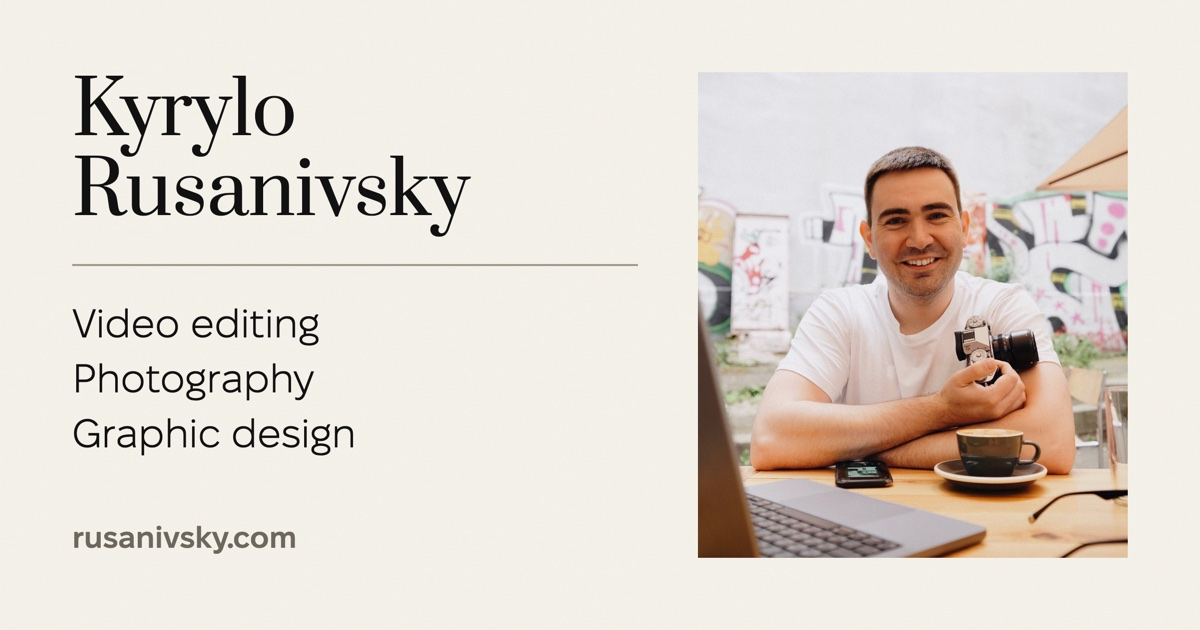
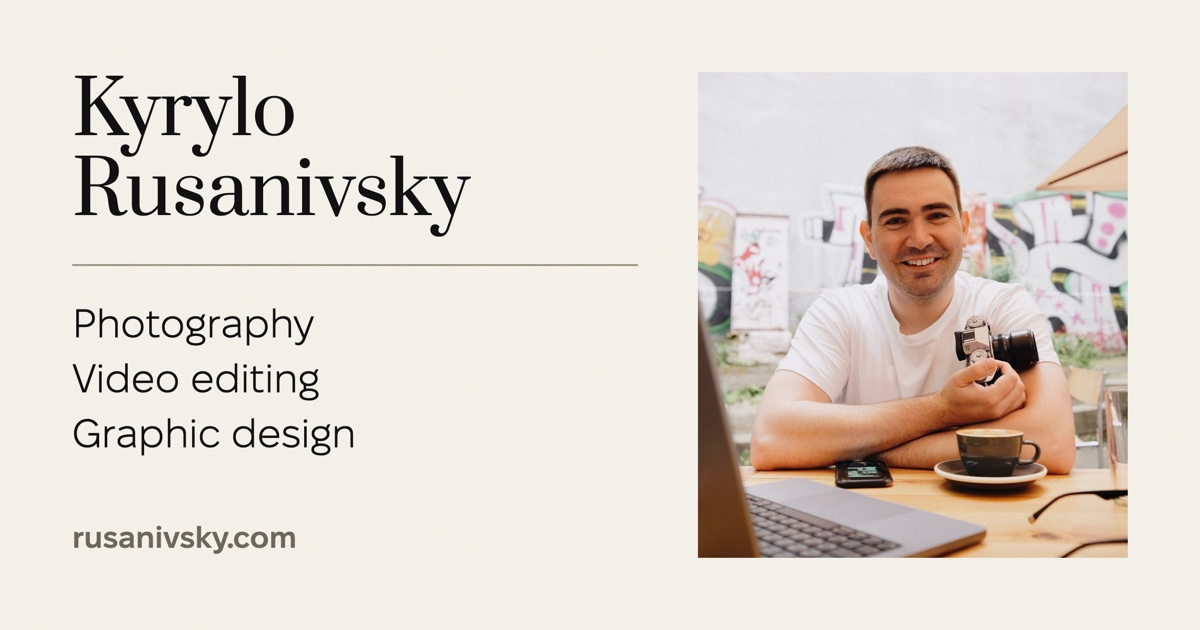
Фотографія попереду — скрізь, де перелічені три напрямки
Метадані несли порядок старого сайту: відео, фотографія, дизайн. Бічна
панель, вступ на головній і сторінки практик давно йдуть інакше —
фотографія, відео, дизайн. Метадані, які суперечать сторінці, гірші
за метадані, які застаріли.

Переставлено в заголовках обох мов, в описах головної і умов, в alt
обкладинки для соцмереж і на самій картці. Слова ті самі, ключові
слова нікуди не діли́ся — переставлений лише порядок.

Changed region(s): [[0.0617, 0.573, 0.2775, 0.6333], [0.0617, 0.4825, 0.2775, 0.5429]]

diff --git a/ua/index.html b/ua/index.html
@@ -3,8 +3,8 @@
 <head>
 <meta charset="utf-8">
 <meta name="viewport" content="width=device-width, initial-scale=1, viewport-fit=cover">
-<title>Кирило Русанівський — митець | Відео, фотографія, дизайн</title>
-<meta name="description" content="Кирило Русанівський — відеомонтажер, фотограф і графічний дизайнер із Києва. Монтаж відео, репортажна фотографія, дизайн книжок і обкладинок, верстка.">
+<title>Кирило Русанівський — митець | Фотографія, відео, дизайн</title>
+<meta name="description" content="Кирило Русанівський — фотограф, відеомонтажер і графічний дизайнер із Києва. Репортажна фотографія, монтаж відео, дизайн книжок і обкладинок, верстка.">
 <meta name="author" content="Kyrylo Rusanivsky">
 <link rel="canonical" href="https://rusanivsky.com/ua/">
 <link rel="alternate" hreflang="en" href="https://rusanivsky.com/">
@@ -15,17 +15,17 @@
 <meta property="og:locale" content="uk_UA">
 <meta property="og:locale:alternate" content="en_US">
 <meta property="og:url" content="https://rusanivsky.com/ua/">
-<meta property="og:title" content="Кирило Русанівський — митець | Відео, фотографія, дизайн">
-<meta property="og:description" content="Кирило Русанівський — відеомонтажер, фотограф і графічний дизайнер із Києва. Монтаж відео, репортажна фотографія, дизайн книжок і обкладинок, верстка.">
-<meta property="og:image" content="https://rusanivsky.com/og-image.jpg?v=758b6841">
+<meta property="og:title" content="Кирило Русанівський — митець | Фотографія, відео, дизайн">
+<meta property="og:description" content="Кирило Русанівський — фотограф, відеомонтажер і графічний дизайнер із Києва. Репортажна фотографія, монтаж відео, дизайн книжок і обкладинок, верстка.">
+<meta property="og:image" content="https://rusanivsky.com/og-image.jpg?v=a4accfd6">
 <meta property="og:image:type" content="image/jpeg">
 <meta property="og:image:width" content="1200">
 <meta property="og:image:height" content="630">
-<meta property="og:image:alt" content="Кирило Русанівський — відеомонтажер, фотограф і графічний дизайнер, Київ">
+<meta property="og:image:alt" content="Кирило Русанівський — фотограф, відеомонтажер і графічний дизайнер, Київ">
 <meta name="twitter:card" content="summary_large_image">
-<meta name="twitter:title" content="Кирило Русанівський — митець | Відео, фотографія, дизайн">
-<meta name="twitter:description" content="Кирило Русанівський — відеомонтажер, фотограф і графічний дизайнер із Києва. Монтаж відео, репортажна фотографія, дизайн книжок і обкладинок, верстка.">
-<meta name="twitter:image" content="https://rusanivsky.com/og-image.jpg?v=758b6841">
+<meta name="twitter:title" content="Кирило Русанівський — митець | Фотографія, відео, дизайн">
+<meta name="twitter:description" content="Кирило Русанівський — фотограф, відеомонтажер і графічний дизайнер із Києва. Репортажна фотографія, монтаж відео, дизайн книжок і обкладинок, верстка.">
+<meta name="twitter:image" content="https://rusanivsky.com/og-image.jpg?v=a4accfd6">
 <meta name="theme-color" content="#f4f1e9">
 <link rel="icon" href="/favicon.ico?v=ccd57da2" sizes="32x32">
 <link rel="icon" href="/favicon.svg?v=ccd57da2" type="image/svg+xml">

diff --git a/ua/rates/index.html b/ua/rates/index.html
@@ -4,7 +4,7 @@
 <meta charset="utf-8">
 <meta name="viewport" content="width=device-width, initial-scale=1, viewport-fit=cover">
 <title>Умови співпраці — Кирило Русанівський</title>
-<meta name="description" content="Умови роботи та контакти Кирила Русанівського — відеомонтажера, фотографа і графічного дизайнера з Києва.">
+<meta name="description" content="Умови роботи та контакти Кирила Русанівського — фотографа, відеомонтажера і графічного дизайнера з Києва.">
 <meta name="author" content="Kyrylo Rusanivsky">
 <link rel="canonical" href="https://rusanivsky.com/ua/rates/">
 <link rel="alternate" hreflang="en" href="https://rusanivsky.com/rates/">
@@ -16,16 +16,16 @@
 <meta property="og:locale:alternate" content="en_US">
 <meta property="og:url" content="https://rusanivsky.com/ua/rates/">
 <meta property="og:title" content="Умови співпраці — Кирило Русанівський">
-<meta property="og:description" content="Умови роботи та контакти Кирила Русанівського — відеомонтажера, фотографа і графічного дизайнера з Києва.">
-<meta property="og:image" content="https://rusanivsky.com/og-image.jpg?v=758b6841">
+<meta property="og:description" content="Умови роботи та контакти Кирила Русанівського — фотографа, відеомонтажера і графічного дизайнера з Києва.">
+<meta property="og:image" content="https://rusanivsky.com/og-image.jpg?v=a4accfd6">
 <meta property="og:image:type" content="image/jpeg">
 <meta property="og:image:width" content="1200">
 <meta property="og:image:height" content="630">
-<meta property="og:image:alt" content="Кирило Русанівський — відеомонтажер, фотограф і графічний дизайнер, Київ">
+<meta property="og:image:alt" content="Кирило Русанівський — фотограф, відеомонтажер і графічний дизайнер, Київ">
 <meta name="twitter:card" content="summary_large_image">
 <meta name="twitter:title" content="Умови співпраці — Кирило Русанівський">
-<meta name="twitter:description" content="Умови роботи та контакти Кирила Русанівського — відеомонтажера, фотографа і графічного дизайнера з Києва.">
-<meta name="twitter:image" content="https://rusanivsky.com/og-image.jpg?v=758b6841">
+<meta name="twitter:description" content="Умови роботи та контакти Кирила Русанівського — фотографа, відеомонтажера і графічного дизайнера з Києва.">
+<meta name="twitter:image" content="https://rusanivsky.com/og-image.jpg?v=a4accfd6">
 <meta name="theme-color" content="#f4f1e9">
 <link rel="icon" href="/favicon.ico?v=ccd57da2" sizes="32x32">
 <link rel="icon" href="/favicon.svg?v=ccd57da2" type="image/svg+xml">

diff --git a/index.html b/index.html
@@ -3,8 +3,8 @@
 <head>
 <meta charset="utf-8">
 <meta name="viewport" content="width=device-width, initial-scale=1, viewport-fit=cover">
-<title>Kyrylo Rusanivsky — Visual Artist | Video, Photography, Design</title>
-<meta name="description" content="Kyrylo Rusanivsky is a Kyiv-based video editor, photographer and graphic designer. Video editing, event photography, book and cover design, editorial layout.">
+<title>Kyrylo Rusanivsky — Visual Artist | Photography, Video, Design</title>
+<meta name="description" content="Kyrylo Rusanivsky is a Kyiv-based photographer, video editor and graphic designer. Event photography, video editing, book and cover design, editorial layout.">
 <meta name="author" content="Kyrylo Rusanivsky">
 <link rel="canonical" href="https://rusanivsky.com/">
 <link rel="alternate" hreflang="en" href="https://rusanivsky.com/">
@@ -15,17 +15,17 @@
 <meta property="og:locale" content="en_US">
 <meta property="og:locale:alternate" content="uk_UA">
 <meta property="og:url" content="https://rusanivsky.com/">
-<meta property="og:title" content="Kyrylo Rusanivsky — Visual Artist | Video, Photography, Design">
-<meta property="og:description" content="Kyrylo Rusanivsky is a Kyiv-based video editor, photographer and graphic designer. Video editing, event photography, book and cover design, editorial layout.">
-<meta property="og:image" content="https://rusanivsky.com/og-image.jpg?v=758b6841">
+<meta property="og:title" content="Kyrylo Rusanivsky — Visual Artist | Photography, Video, Design">
+<meta property="og:description" content="Kyrylo Rusanivsky is a Kyiv-based photographer, video editor and graphic designer. Event photography, video editing, book and cover design, editorial layout.">
+<meta property="og:image" content="https://rusanivsky.com/og-image.jpg?v=a4accfd6">
 <meta property="og:image:type" content="image/jpeg">
 <meta property="og:image:width" content="1200">
 <meta property="og:image:height" content="630">
-<meta property="og:image:alt" content="Kyrylo Rusanivsky — video editor, photographer and graphic designer, Kyiv">
+<meta property="og:image:alt" content="Kyrylo Rusanivsky — photographer, video editor and graphic designer, Kyiv">
 <meta name="twitter:card" content="summary_large_image">
-<meta name="twitter:title" content="Kyrylo Rusanivsky — Visual Artist | Video, Photography, Design">
-<meta name="twitter:description" content="Kyrylo Rusanivsky is a Kyiv-based video editor, photographer and graphic designer. Video editing, event photography, book and cover design, editorial layout.">
-<meta name="twitter:image" content="https://rusanivsky.com/og-image.jpg?v=758b6841">
+<meta name="twitter:title" content="Kyrylo Rusanivsky — Visual Artist | Photography, Video, Design">
+<meta name="twitter:description" content="Kyrylo Rusanivsky is a Kyiv-based photographer, video editor and graphic designer. Event photography, video editing, book and cover design, editorial layout.">
+<meta name="twitter:image" content="https://rusanivsky.com/og-image.jpg?v=a4accfd6">
 <meta name="theme-color" content="#f4f1e9">
 <link rel="icon" href="/favicon.ico?v=ccd57da2" sizes="32x32">
 <link rel="icon" href="/favicon.svg?v=ccd57da2" type="image/svg+xml">

diff --git a/rates/index.html b/rates/index.html
@@ -4,7 +4,7 @@
 <meta charset="utf-8">
 <meta name="viewport" content="width=device-width, initial-scale=1, viewport-fit=cover">
 <title>Rates &amp; Terms — Kyrylo Rusanivsky</title>
-<meta name="description" content="Work terms, prices and payment for Kyrylo Rusanivsky — video editor, photographer and graphic designer in Kyiv. Rates, timelines, revisions and paperwork.">
+<meta name="description" content="Work terms, prices and payment for Kyrylo Rusanivsky — photographer, video editor and graphic designer in Kyiv. Rates, timelines, revisions and paperwork.">
 <meta name="author" content="Kyrylo Rusanivsky">
 <link rel="canonical" href="https://rusanivsky.com/rates/">
 <link rel="alternate" hreflang="en" href="https://rusanivsky.com/rates/">
@@ -16,16 +16,16 @@
 <meta property="og:locale:alternate" content="uk_UA">
 <meta property="og:url" content="https://rusanivsky.com/rates/">
 <meta property="og:title" content="Rates &amp; Terms — Kyrylo Rusanivsky">
-<meta property="og:description" content="Work terms, prices and payment for Kyrylo Rusanivsky — video editor, photographer and graphic designer in Kyiv. Rates, timelines, revisions and paperwork.">
-<meta property="og:image" content="https://rusanivsky.com/og-image.jpg?v=758b6841">
+<meta property="og:description" content="Work terms, prices and payment for Kyrylo Rusanivsky — photographer, video editor and graphic designer in Kyiv. Rates, timelines, revisions and paperwork.">
+<meta property="og:image" content="https://rusanivsky.com/og-image.jpg?v=a4accfd6">
 <meta property="og:image:type" content="image/jpeg">
 <meta property="og:image:width" content="1200">
 <meta property="og:image:height" content="630">
-<meta property="og:image:alt" content="Kyrylo Rusanivsky — video editor, photographer and graphic designer, Kyiv">
+<meta property="og:image:alt" content="Kyrylo Rusanivsky — photographer, video editor and graphic designer, Kyiv">
 <meta name="twitter:card" content="summary_large_image">
 <meta name="twitter:title" content="Rates &amp; Terms — Kyrylo Rusanivsky">
-<meta name="twitter:description" content="Work terms, prices and payment for Kyrylo Rusanivsky — video editor, photographer and graphic designer in Kyiv. Rates, timelines, revisions and paperwork.">
-<meta name="twitter:image" content="https://rusanivsky.com/og-image.jpg?v=758b6841">
+<meta name="twitter:description" content="Work terms, prices and payment for Kyrylo Rusanivsky — photographer, video editor and graphic designer in Kyiv. Rates, timelines, revisions and paperwork.">
+<meta name="twitter:image" content="https://rusanivsky.com/og-image.jpg?v=a4accfd6">
 <meta name="theme-color" content="#f4f1e9">
 <link rel="icon" href="/favicon.ico?v=ccd57da2" sizes="32x32">
 <link rel="icon" href="/favicon.svg?v=ccd57da2" type="image/svg+xml">

diff --git a/ua/info/index.html b/ua/info/index.html
@@ -17,15 +17,15 @@
 <meta property="og:url" content="https://rusanivsky.com/ua/info/">
 <meta property="og:title" content="Про мене — Кирило Русанівський">
 <meta property="og:description" content="Монтую відео. Проєктую й верстаю книжки. Знімаю людей і події. Працюю з інтерв’ю, YouTube-серіями й роликами для соцмереж; створюю видання та поліграфічну продукцію. Також веду серію вуличних світлин — про місто, випадкові сцени і краєвиди. Працюю дистанційно.">
-<meta property="og:image" content="https://rusanivsky.com/og-image.jpg?v=758b6841">
+<meta property="og:image" content="https://rusanivsky.com/og-image.jpg?v=a4accfd6">
 <meta property="og:image:type" content="image/jpeg">
 <meta property="og:image:width" content="1200">
 <meta property="og:image:height" content="630">
-<meta property="og:image:alt" content="Кирило Русанівський — відеомонтажер, фотограф і графічний дизайнер, Київ">
+<meta property="og:image:alt" content="Кирило Русанівський — фотограф, відеомонтажер і графічний дизайнер, Київ">
 <meta name="twitter:card" content="summary_large_image">
 <meta name="twitter:title" content="Про мене — Кирило Русанівський">
 <meta name="twitter:description" content="Монтую відео. Проєктую й верстаю книжки. Знімаю людей і події. Працюю з інтерв’ю, YouTube-серіями й роликами для соцмереж; створюю видання та поліграфічну продукцію. Також веду серію вуличних світлин — про місто, випадкові сцени і краєвиди. Працюю дистанційно.">
-<meta name="twitter:image" content="https://rusanivsky.com/og-image.jpg?v=758b6841">
+<meta name="twitter:image" content="https://rusanivsky.com/og-image.jpg?v=a4accfd6">
 <meta name="theme-color" content="#f4f1e9">
 <link rel="icon" href="/favicon.ico?v=ccd57da2" sizes="32x32">
 <link rel="icon" href="/favicon.svg?v=ccd57da2" type="image/svg+xml">

diff --git a/ua/street/index.html b/ua/street/index.html
@@ -17,15 +17,15 @@
 <meta property="og:url" content="https://rusanivsky.com/ua/street/">
 <meta property="og:title" content="Вулична фотографія — Кирило Русанівський">
 <meta property="og:description" content="Серія вуличних світлин — про місто, випадкові сцени і краєвиди. Це не замовна робота і вона ніколи не завершена: вона триває поряд з усім іншим.">
-<meta property="og:image" content="https://rusanivsky.com/og-image.jpg?v=758b6841">
+<meta property="og:image" content="https://rusanivsky.com/og-image.jpg?v=a4accfd6">
 <meta property="og:image:type" content="image/jpeg">
 <meta property="og:image:width" content="1200">
 <meta property="og:image:height" content="630">
-<meta property="og:image:alt" content="Кирило Русанівський — відеомонтажер, фотограф і графічний дизайнер, Київ">
+<meta property="og:image:alt" content="Кирило Русанівський — фотограф, відеомонтажер і графічний дизайнер, Київ">
 <meta name="twitter:card" content="summary_large_image">
 <meta name="twitter:title" content="Вулична фотографія — Кирило Русанівський">
 <meta name="twitter:description" content="Серія вуличних світлин — про місто, випадкові сцени і краєвиди. Це не замовна робота і вона ніколи не завершена: вона триває поряд з усім іншим.">
-<meta name="twitter:image" content="https://rusanivsky.com/og-image.jpg?v=758b6841">
+<meta name="twitter:image" content="https://rusanivsky.com/og-image.jpg?v=a4accfd6">
 <meta name="theme-color" content="#f4f1e9">
 <link rel="icon" href="/favicon.ico?v=ccd57da2" sizes="32x32">
 <link rel="icon" href="/favicon.svg?v=ccd57da2" type="image/svg+xml">

diff --git a/ua/design/index.html b/ua/design/index.html
@@ -17,15 +17,15 @@
 <meta property="og:url" content="https://rusanivsky.com/ua/design/">
 <meta property="og:title" content="Дизайн — Кирило Русанівський">
 <meta property="og:description" content="Дизайнер книжкових обкладинок у Києві. Обкладинки, редакційна типографіка, верстка книжок і поліграфія для видавців, авторів і культурних проєктів.">
-<meta property="og:image" content="https://rusanivsky.com/og-image.jpg?v=758b6841">
+<meta property="og:image" content="https://rusanivsky.com/og-image.jpg?v=a4accfd6">
 <meta property="og:image:type" content="image/jpeg">
 <meta property="og:image:width" content="1200">
 <meta property="og:image:height" content="630">
-<meta property="og:image:alt" content="Кирило Русанівський — відеомонтажер, фотограф і графічний дизайнер, Київ">
+<meta property="og:image:alt" content="Кирило Русанівський — фотограф, відеомонтажер і графічний дизайнер, Київ">
 <meta name="twitter:card" content="summary_large_image">
 <meta name="twitter:title" content="Дизайн — Кирило Русанівський">
 <meta name="twitter:description" content="Дизайнер книжкових обкладинок у Києві. Обкладинки, редакційна типографіка, верстка книжок і поліграфія для видавців, авторів і культурних проєктів.">
-<meta name="twitter:image" content="https://rusanivsky.com/og-image.jpg?v=758b6841">
+<meta name="twitter:image" content="https://rusanivsky.com/og-image.jpg?v=a4accfd6">
 <meta name="theme-color" content="#f4f1e9">
 <link rel="icon" href="/favicon.ico?v=ccd57da2" sizes="32x32">
 <link rel="icon" href="/favicon.svg?v=ccd57da2" type="image/svg+xml">

diff --git a/ua/photo/index.html b/ua/photo/index.html
@@ -17,15 +17,15 @@
 <meta property="og:url" content="https://rusanivsky.com/ua/photo/">
 <meta property="og:title" content="Фотографія — Кирило Русанівський">
 <meta property="og:description" content="Репортаж, культура й мистецтво, бекстейдж і портрети — замовна робота, зібрана в серії, а не викладена всіма кадрами поспіль.">
-<meta property="og:image" content="https://rusanivsky.com/og-image.jpg?v=758b6841">
+<meta property="og:image" content="https://rusanivsky.com/og-image.jpg?v=a4accfd6">
 <meta property="og:image:type" content="image/jpeg">
 <meta property="og:image:width" content="1200">
 <meta property="og:image:height" content="630">
-<meta property="og:image:alt" content="Кирило Русанівський — відеомонтажер, фотограф і графічний дизайнер, Київ">
+<meta property="og:image:alt" content="Кирило Русанівський — фотограф, відеомонтажер і графічний дизайнер, Київ">
 <meta name="twitter:card" content="summary_large_image">
 <meta name="twitter:title" content="Фотографія — Кирило Русанівський">
 <meta name="twitter:description" content="Репортаж, культура й мистецтво, бекстейдж і портрети — замовна робота, зібрана в серії, а не викладена всіма кадрами поспіль.">
-<meta name="twitter:image" content="https://rusanivsky.com/og-image.jpg?v=758b6841">
+<meta name="twitter:image" content="https://rusanivsky.com/og-image.jpg?v=a4accfd6">
 <meta name="theme-color" content="#f4f1e9">
 <link rel="icon" href="/favicon.ico?v=ccd57da2" sizes="32x32">
 <link rel="icon" href="/favicon.svg?v=ccd57da2" type="image/svg+xml">

diff --git a/info/index.html b/info/index.html
@@ -17,15 +17,15 @@
 <meta property="og:url" content="https://rusanivsky.com/info/">
 <meta property="og:title" content="About me — Kyrylo Rusanivsky">
 <meta property="og:description" content="I edit videos. I design and typeset books. I photograph people and events. I work on interviews, YouTube series and social-media videos; I create publications and printed materials. I also keep a street-photography series about the city, spontaneous scenes and landscapes. I work remotely.">
-<meta property="og:image" content="https://rusanivsky.com/og-image.jpg?v=758b6841">
+<meta property="og:image" content="https://rusanivsky.com/og-image.jpg?v=a4accfd6">
 <meta property="og:image:type" content="image/jpeg">
 <meta property="og:image:width" content="1200">
 <meta property="og:image:height" content="630">
-<meta property="og:image:alt" content="Kyrylo Rusanivsky — video editor, photographer and graphic designer, Kyiv">
+<meta property="og:image:alt" content="Kyrylo Rusanivsky — photographer, video editor and graphic designer, Kyiv">
 <meta name="twitter:card" content="summary_large_image">
 <meta name="twitter:title" content="About me — Kyrylo Rusanivsky">
 <meta name="twitter:description" content="I edit videos. I design and typeset books. I photograph people and events. I work on interviews, YouTube series and social-media videos; I create publications and printed materials. I also keep a street-photography series about the city, spontaneous scenes and landscapes. I work remotely.">
-<meta name="twitter:image" content="https://rusanivsky.com/og-image.jpg?v=758b6841">
+<meta name="twitter:image" content="https://rusanivsky.com/og-image.jpg?v=a4accfd6">
 <meta name="theme-color" content="#f4f1e9">
 <link rel="icon" href="/favicon.ico?v=ccd57da2" sizes="32x32">
 <link rel="icon" href="/favicon.svg?v=ccd57da2" type="image/svg+xml">

diff --git a/ua/privacy/index.html b/ua/privacy/index.html
@@ -17,15 +17,15 @@
 <meta property="og:url" content="https://rusanivsky.com/ua/privacy/">
 <meta property="og:title" content="Приватність — Кирило Русанівський">
 <meta property="og:description" content="Коротка інформація про приватність і використання Google Analytics на сайті Кирила Русанівського.">
-<meta property="og:image" content="https://rusanivsky.com/og-image.jpg?v=758b6841">
+<meta property="og:image" content="https://rusanivsky.com/og-image.jpg?v=a4accfd6">
 <meta property="og:image:type" content="image/jpeg">
 <meta property="og:image:width" content="1200">
 <meta property="og:image:height" content="630">
-<meta property="og:image:alt" content="Кирило Русанівський — відеомонтажер, фотограф і графічний дизайнер, Київ">
+<meta property="og:image:alt" content="Кирило Русанівський — фотограф, відеомонтажер і графічний дизайнер, Київ">
 <meta name="twitter:card" content="summary_large_image">
 <meta name="twitter:title" content="Приватність — Кирило Русанівський">
 <meta name="twitter:description" content="Коротка інформація про приватність і використання Google Analytics на сайті Кирила Русанівського.">
-<meta name="twitter:image" content="https://rusanivsky.com/og-image.jpg?v=758b6841">
+<meta name="twitter:image" content="https://rusanivsky.com/og-image.jpg?v=a4accfd6">
 <meta name="theme-color" content="#f4f1e9">
 <link rel="icon" href="/favicon.ico?v=ccd57da2" sizes="32x32">
 <link rel="icon" href="/favicon.svg?v=ccd57da2" type="image/svg+xml">

diff --git a/ua/video/index.html b/ua/video/index.html
@@ -17,15 +17,15 @@
 <meta property="og:url" content="https://rusanivsky.com/ua/video/">
 <meta property="og:title" content="Відео — Кирило Русанівський">
 <meta property="og:description" content="Камера, монтаж і колір: документалістика, інтерв’ю та YouTube-серії, брендові фільми й короткий метр.">
-<meta property="og:image" content="https://rusanivsky.com/og-image.jpg?v=758b6841">
+<meta property="og:image" content="https://rusanivsky.com/og-image.jpg?v=a4accfd6">
 <meta property="og:image:type" content="image/jpeg">
 <meta property="og:image:width" content="1200">
 <meta property="og:image:height" content="630">
-<meta property="og:image:alt" content="Кирило Русанівський — відеомонтажер, фотограф і графічний дизайнер, Київ">
+<meta property="og:image:alt" content="Кирило Русанівський — фотограф, відеомонтажер і графічний дизайнер, Київ">
 <meta name="twitter:card" content="summary_large_image">
 <meta name="twitter:title" content="Відео — Кирило Русанівський">
 <meta name="twitter:description" content="Камера, монтаж і колір: документалістика, інтерв’ю та YouTube-серії, брендові фільми й короткий метр.">
-<meta name="twitter:image" content="https://rusanivsky.com/og-image.jpg?v=758b6841">
+<meta name="twitter:image" content="https://rusanivsky.com/og-image.jpg?v=a4accfd6">
 <meta name="theme-color" content="#f4f1e9">
 <link rel="icon" href="/favicon.ico?v=ccd57da2" sizes="32x32">
 <link rel="icon" href="/favicon.svg?v=ccd57da2" type="image/svg+xml">

diff --git a/ua/enquiries/index.html b/ua/enquiries/index.html
@@ -17,15 +17,15 @@
 <meta property="og:url" content="https://rusanivsky.com/ua/enquiries/">
 <meta property="og:title" content="Замовлення — Кирило Русанівський">
 <meta property="og:description" content="Пишіть у зручний спосіб. Відповідаю протягом одного робочого дня.">
-<meta property="og:image" content="https://rusanivsky.com/og-image.jpg?v=758b6841">
+<meta property="og:image" content="https://rusanivsky.com/og-image.jpg?v=a4accfd6">
 <meta property="og:image:type" content="image/jpeg">
 <meta property="og:image:width" content="1200">
 <meta property="og:image:height" content="630">
-<meta property="og:image:alt" content="Кирило Русанівський — відеомонтажер, фотограф і графічний дизайнер, Київ">
+<meta property="og:image:alt" content="Кирило Русанівський — фотограф, відеомонтажер і графічний дизайнер, Київ">
 <meta name="twitter:card" content="summary_large_image">
 <meta name="twitter:title" content="Замовлення — Кирило Русанівський">
 <meta name="twitter:description" content="Пишіть у зручний спосіб. Відповідаю протягом одного робочого дня.">
-<meta name="twitter:image" content="https://rusanivsky.com/og-image.jpg?v=758b6841">
+<meta name="twitter:image" content="https://rusanivsky.com/og-image.jpg?v=a4accfd6">
 <meta name="theme-color" content="#f4f1e9">
 <link rel="icon" href="/favicon.ico?v=ccd57da2" sizes="32x32">
 <link rel="icon" href="/favicon.svg?v=ccd57da2" type="image/svg+xml">
